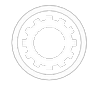
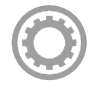
New buttons

Changed region(s): [[0.2079, 0.1758, 0.7723, 0.7692], [0.1188, 0.044, 0.8614, 0.8791]]

diff --git a/core/src/gameScreens/MainMenuScreen.java b/core/src/gameScreens/MainMenuScreen.java
@@ -113,12 +113,17 @@ public class MainMenuScreen implements Screen {
                 game.setScreen(new ShopScreen(game));
             }
         });
-        settingBtn = new ImageButton(new TextureRegionDrawable(new TextureRegion(new Texture("buttons/playBtn.png")))) {
+        settingBtn = new ImageButton(new TextureRegionDrawable(new TextureRegion(new Texture("buttons/settingBtn.png")))) {
             @Override
             public void draw(Batch batch, float parentAlpha) {
-                setPosition(scale / 2 + settingBtn.getWidth() * scale * 1.3f, scale / 2);
-                batch.draw(settingTexture, scale / 2 + settingBtn.getWidth() * scale * 1.3f, scale / 2,
-                        settingBtn.getWidth() * scale, settingBtn.getHeight() * scale);
+//                setPosition(scale / 2 + settingBtn.getWidth() * scale * 1.3f, sale / 2);
+                setPosition(scale / 2 + playBtn.getWidth(),
+                        0 - scale * 5);
+//                batch.draw(settingTexture, scale / 2 + settingBtn.getWidth() * scale * 1.3f, scale / 2,
+//                        settingBtn.getWidth() * scale, settingBtn.getHeight() * scale);
+                batch.draw(settingTexture, scale / 2 + playBtn.getWidth(),
+                            0 - scale * 5,
+                            settingBtn.getWidth() * scale, settingBtn.getHeight() * scale);
             }
         };
         playBtn.addListener(new ClickListener() {

diff --git a/core/src/gameScreens/AboutScreen.java b/core/src/gameScreens/AboutScreen.java
@@ -68,7 +68,7 @@ public class AboutScreen implements Screen {
     }
 
     private void createBackgroundForScore() {
-        sprite = new Sprite(new TextureRegion(new Texture(Gdx.files.internal("images/helpBkg.jpg"))));
+        sprite = new Sprite(new TextureRegion(new Texture(Gdx.files.internal("images/helpBkg.png"))));
     }
 
     @Override
